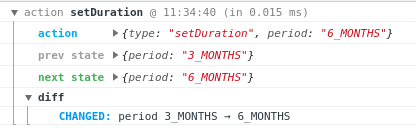
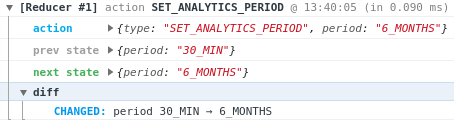
Add display name in options

diff --git a/src/index.ts b/src/index.ts
@@ -4,13 +4,16 @@ import { lightblue, green, grey } from './colors';
 
 const defaultOptions: Options = {
   disabled: false,
+  displayName: '',
 };
 
 function wrapReducer<S, A extends Action>(
   reducer: Reducer<S, A>,
   options: Options | undefined = defaultOptions
 ): Reducer<S, A> {
-  if (options.disabled) {
+  const { disabled, displayName } = options;
+
+  if (disabled) {
     return reducer;
   }
 
@@ -19,7 +22,7 @@ function wrapReducer<S, A extends Action>(
     const newState = reducer(state, action);
     const duration = performance.now() - t0;
 
-    renderLog(action, state, newState, duration);
+    renderLog(action, state, newState, duration, displayName);
 
     return newState;
   };
@@ -29,12 +32,16 @@ function renderLog<S, A extends Action>(
   action: A,
   state: S,
   newState: S,
-  duration: number
+  duration: number,
+  displayName?: string
 ): void {
+  const prefix = displayName ? `[${displayName}] ` : '';
+
   console.groupCollapsed(
-    `%caction %c${
+    `%c${prefix}%caction %c${
       action.type
     } %c@ ${new Date().toLocaleTimeString()} (in ${duration.toFixed(3)} ms)`,
+    'color: dark; font-weight: bolder;',
     'color: gray; font-weight: lighter;',
     'color: dark; font-weight: bolder;',
     'color: gray; font-weight: lighter;'

diff --git a/src/types/index.ts b/src/types/index.ts
@@ -8,7 +8,8 @@ interface Reducer<S, A> {
 }
 
 export type Options = {
-  disabled: boolean;
+  disabled?: boolean;
+  displayName?: string;
 };
 
 export { Reducer, Action };

diff --git a/README.md b/README.md
@@ -21,7 +21,7 @@ Just wrapp the reducer using the wrapReducer function.
 Second parameter is an optional configuration object.
 
 ```js
-import { wrapReducer } from 'reducer-logger';
+import { wrapReducer } from '@fthebaud/reducer-logger';
 
 const reducer = (state: State, action: Action): State => {
   // Reducer code
@@ -31,6 +31,7 @@ export const reducerWithLogs = wrapReducer<State, Action>(
     reducer,
     {
       disabled: process.env.NODE_ENV === 'production',
+      displayName: 'reducer #1',
     }
 );
 
@@ -38,6 +39,7 @@ export const reducerWithLogs = wrapReducer<State, Action>(
 
 ## Options
 
-| Name     | type    | default |
-| -------- | ------- | ------- |
-| disabled | boolean | false   |
+| Name        | type    | default |
+| ----------- | ------- | ------- |
+| disabled    | boolean | false   |
+| displayName | string  | ''      |
